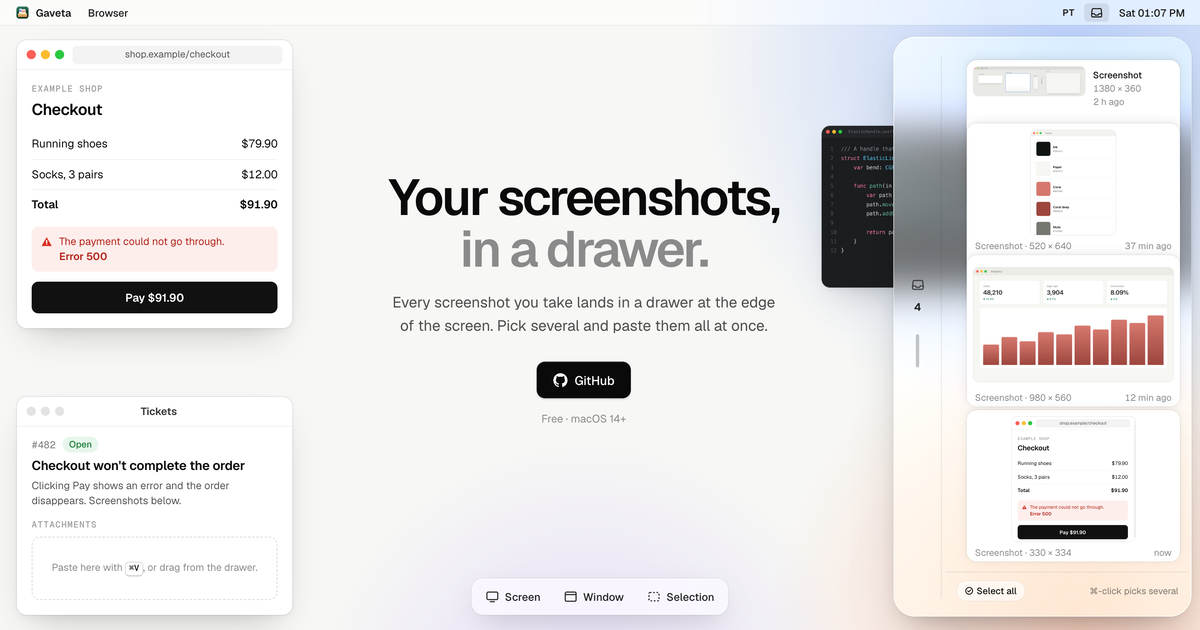
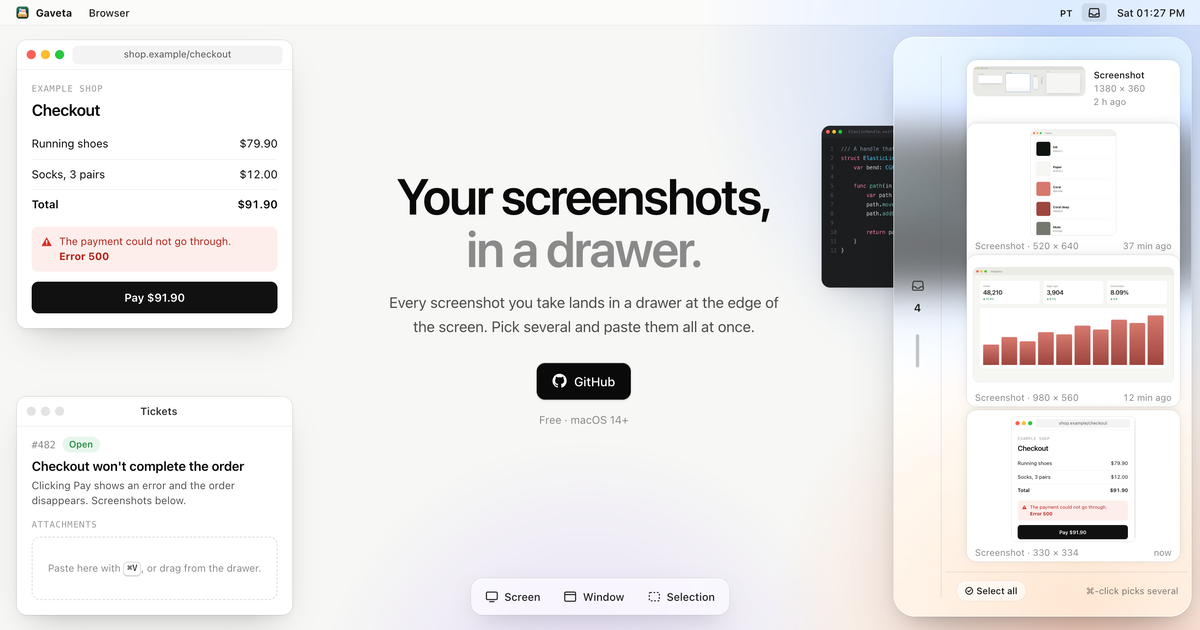
Landing na fonte do Mac (SF Pro), sem baixar fontes
A página usa a fonte do sistema, como o próprio app: a gaveta da mesa
fica com a mesma letra da Gaveta de verdade, e o Google Fonts sai.

diff --git a/site/en/index.html b/site/en/index.html
@@ -19,13 +19,10 @@
 <meta name="theme-color" content="#ffffff">
 <link rel="icon" type="image/png" sizes="32x32" href="../assets/favicon-32.png">
 <link rel="apple-touch-icon" href="../assets/apple-touch-icon.png">
-<link rel="preconnect" href="https://fonts.googleapis.com">
-<link rel="preconnect" href="https://fonts.gstatic.com" crossorigin>
-<link rel="stylesheet" href="https://fonts.googleapis.com/css2?family=Geist:wght@400..600&family=Geist+Mono:wght@400;500&display=swap">
 <style>/* Gaveta, the landing: one screen, a white Mac desk where the glass drawer
    works. Take a screenshot of the desk with the bar below, it flies into the
    drawer at the right edge; copy one or several and paste them into the
-   ticket. Geist over white, hairlines, mono labels. */
+   ticket. The Mac's own type (SF Pro) over white, hairlines, mono labels. */
 
 :root {
   color-scheme: light;
@@ -38,8 +35,8 @@
   --linha-forte: #d9d9d9;
   --foco: #0b6cf0;
   --azul: #2f7cf6;
-  --sans: "Geist", ui-sans-serif, system-ui, -apple-system, BlinkMacSystemFont, "Segoe UI", sans-serif;
-  --mono: "Geist Mono", ui-monospace, SFMono-Regular, Menlo, monospace;
+  --sans: -apple-system, BlinkMacSystemFont, "SF Pro Text", system-ui, "Segoe UI", Roboto, "Helvetica Neue", Arial, sans-serif;
+  --mono: ui-monospace, "SF Mono", SFMono-Regular, Menlo, Consolas, monospace;
   --mola: cubic-bezier(0.22, 1.18, 0.36, 1);
   --sai: cubic-bezier(0.2, 0.7, 0.2, 1);
   --menus: 30px;
@@ -102,7 +99,7 @@ kbd {
   position: absolute; z-index: 1; top: 50%; left: calc((20px + var(--janela) + 100vw - var(--reserva)) / 2);
   width: min(560px, calc(100vw - var(--janela) - var(--reserva) - 64px)); transform: translate(-50%, -56%); text-align: center;
 }
-.titulo { margin: 0; font-size: clamp(2.4rem, 4.2vw, 4.4rem); line-height: 1.02; font-weight: 600; letter-spacing: -0.045em; text-wrap: balance; }
+.titulo { margin: 0; font-size: clamp(2.4rem, 4.2vw, 4.4rem); line-height: 1.04; font-weight: 600; letter-spacing: -0.032em; text-wrap: balance; }
 .titulo span { color: var(--tinta-muda); }
 .intro { max-width: 30rem; margin: 1.2rem auto 0; color: var(--tinta-suave); font-size: clamp(1rem, 1.25vw, 1.125rem); line-height: 1.6; text-wrap: pretty; }
 .botao {

diff --git a/site/index.html b/site/index.html
@@ -24,13 +24,10 @@
 <meta name="theme-color" content="#ffffff">
 <link rel="icon" type="image/png" sizes="32x32" href="assets/favicon-32.png">
 <link rel="apple-touch-icon" href="assets/apple-touch-icon.png">
-<link rel="preconnect" href="https://fonts.googleapis.com">
-<link rel="preconnect" href="https://fonts.gstatic.com" crossorigin>
-<link rel="stylesheet" href="https://fonts.googleapis.com/css2?family=Geist:wght@400..600&family=Geist+Mono:wght@400;500&display=swap">
 <style>/* Gaveta, the landing: one screen, a white Mac desk where the glass drawer
    works. Take a screenshot of the desk with the bar below, it flies into the
    drawer at the right edge; copy one or several and paste them into the
-   ticket. Geist over white, hairlines, mono labels. */
+   ticket. The Mac's own type (SF Pro) over white, hairlines, mono labels. */
 
 :root {
   color-scheme: light;
@@ -43,8 +40,8 @@
   --linha-forte: #d9d9d9;
   --foco: #0b6cf0;
   --azul: #2f7cf6;
-  --sans: "Geist", ui-sans-serif, system-ui, -apple-system, BlinkMacSystemFont, "Segoe UI", sans-serif;
-  --mono: "Geist Mono", ui-monospace, SFMono-Regular, Menlo, monospace;
+  --sans: -apple-system, BlinkMacSystemFont, "SF Pro Text", system-ui, "Segoe UI", Roboto, "Helvetica Neue", Arial, sans-serif;
+  --mono: ui-monospace, "SF Mono", SFMono-Regular, Menlo, Consolas, monospace;
   --mola: cubic-bezier(0.22, 1.18, 0.36, 1);
   --sai: cubic-bezier(0.2, 0.7, 0.2, 1);
   --menus: 30px;
@@ -107,7 +104,7 @@ kbd {
   position: absolute; z-index: 1; top: 50%; left: calc((20px + var(--janela) + 100vw - var(--reserva)) / 2);
   width: min(560px, calc(100vw - var(--janela) - var(--reserva) - 64px)); transform: translate(-50%, -56%); text-align: center;
 }
-.titulo { margin: 0; font-size: clamp(2.4rem, 4.2vw, 4.4rem); line-height: 1.02; font-weight: 600; letter-spacing: -0.045em; text-wrap: balance; }
+.titulo { margin: 0; font-size: clamp(2.4rem, 4.2vw, 4.4rem); line-height: 1.04; font-weight: 600; letter-spacing: -0.032em; text-wrap: balance; }
 .titulo span { color: var(--tinta-muda); }
 .intro { max-width: 30rem; margin: 1.2rem auto 0; color: var(--tinta-suave); font-size: clamp(1rem, 1.25vw, 1.125rem); line-height: 1.6; text-wrap: pretty; }
 .botao {

diff --git a/site/vidro/vidro.css b/site/vidro/vidro.css
@@ -1,7 +1,7 @@
 /* Gaveta, the landing: one screen, a white Mac desk where the glass drawer
    works. Take a screenshot of the desk with the bar below, it flies into the
    drawer at the right edge; copy one or several and paste them into the
-   ticket. Geist over white, hairlines, mono labels. */
+   ticket. The Mac's own type (SF Pro) over white, hairlines, mono labels. */
 
 :root {
   color-scheme: light;
@@ -14,8 +14,8 @@
   --linha-forte: #d9d9d9;
   --foco: #0b6cf0;
   --azul: #2f7cf6;
-  --sans: "Geist", ui-sans-serif, system-ui, -apple-system, BlinkMacSystemFont, "Segoe UI", sans-serif;
-  --mono: "Geist Mono", ui-monospace, SFMono-Regular, Menlo, monospace;
+  --sans: -apple-system, BlinkMacSystemFont, "SF Pro Text", system-ui, "Segoe UI", Roboto, "Helvetica Neue", Arial, sans-serif;
+  --mono: ui-monospace, "SF Mono", SFMono-Regular, Menlo, Consolas, monospace;
   --mola: cubic-bezier(0.22, 1.18, 0.36, 1);
   --sai: cubic-bezier(0.2, 0.7, 0.2, 1);
   --menus: 30px;
@@ -78,7 +78,7 @@ kbd {
   position: absolute; z-index: 1; top: 50%; left: calc((20px + var(--janela) + 100vw - var(--reserva)) / 2);
   width: min(560px, calc(100vw - var(--janela) - var(--reserva) - 64px)); transform: translate(-50%, -56%); text-align: center;
 }
-.titulo { margin: 0; font-size: clamp(2.4rem, 4.2vw, 4.4rem); line-height: 1.02; font-weight: 600; letter-spacing: -0.045em; text-wrap: balance; }
+.titulo { margin: 0; font-size: clamp(2.4rem, 4.2vw, 4.4rem); line-height: 1.04; font-weight: 600; letter-spacing: -0.032em; text-wrap: balance; }
 .titulo span { color: var(--tinta-muda); }
 .intro { max-width: 30rem; margin: 1.2rem auto 0; color: var(--tinta-suave); font-size: clamp(1rem, 1.25vw, 1.125rem); line-height: 1.6; text-wrap: pretty; }
 .botao {
